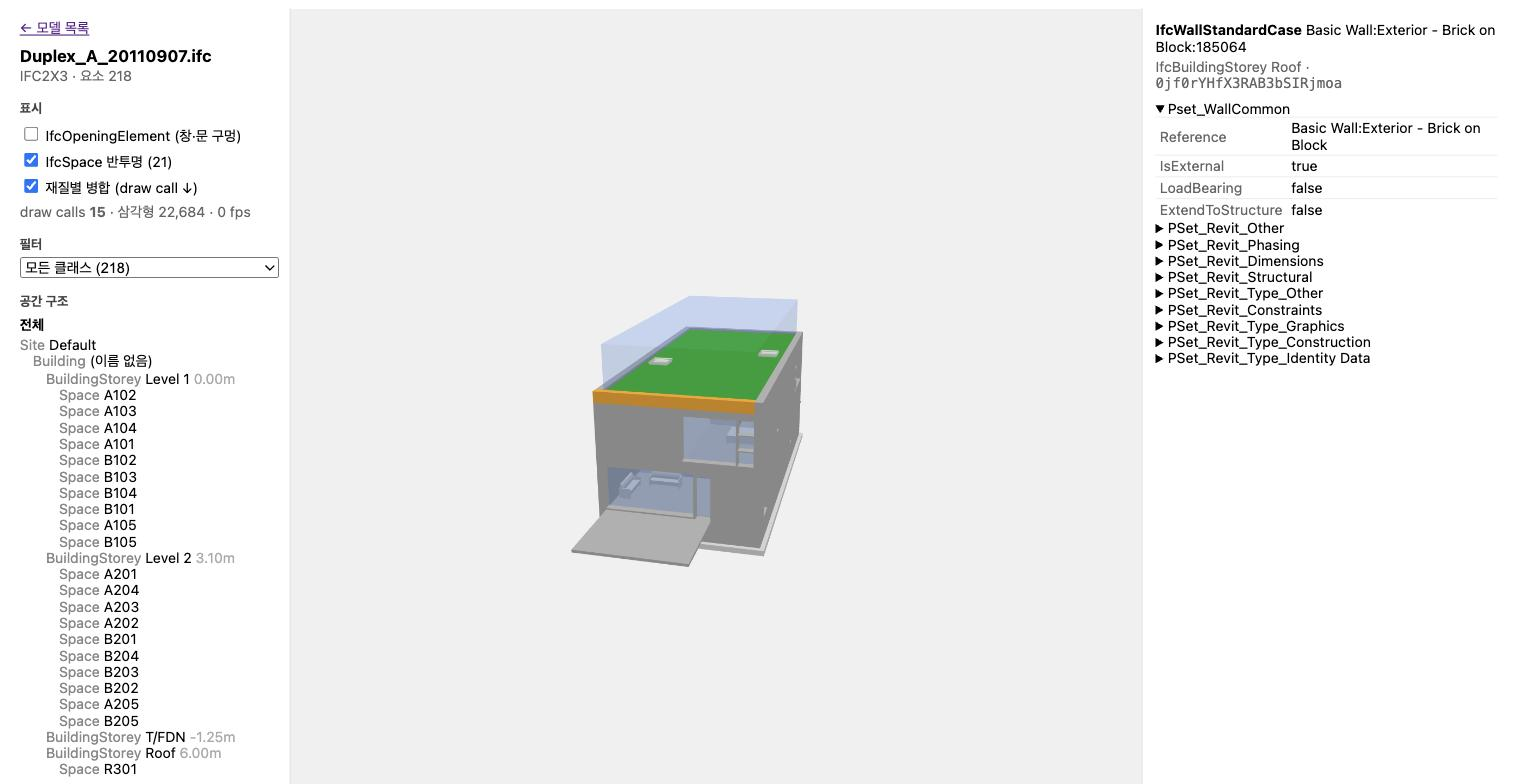
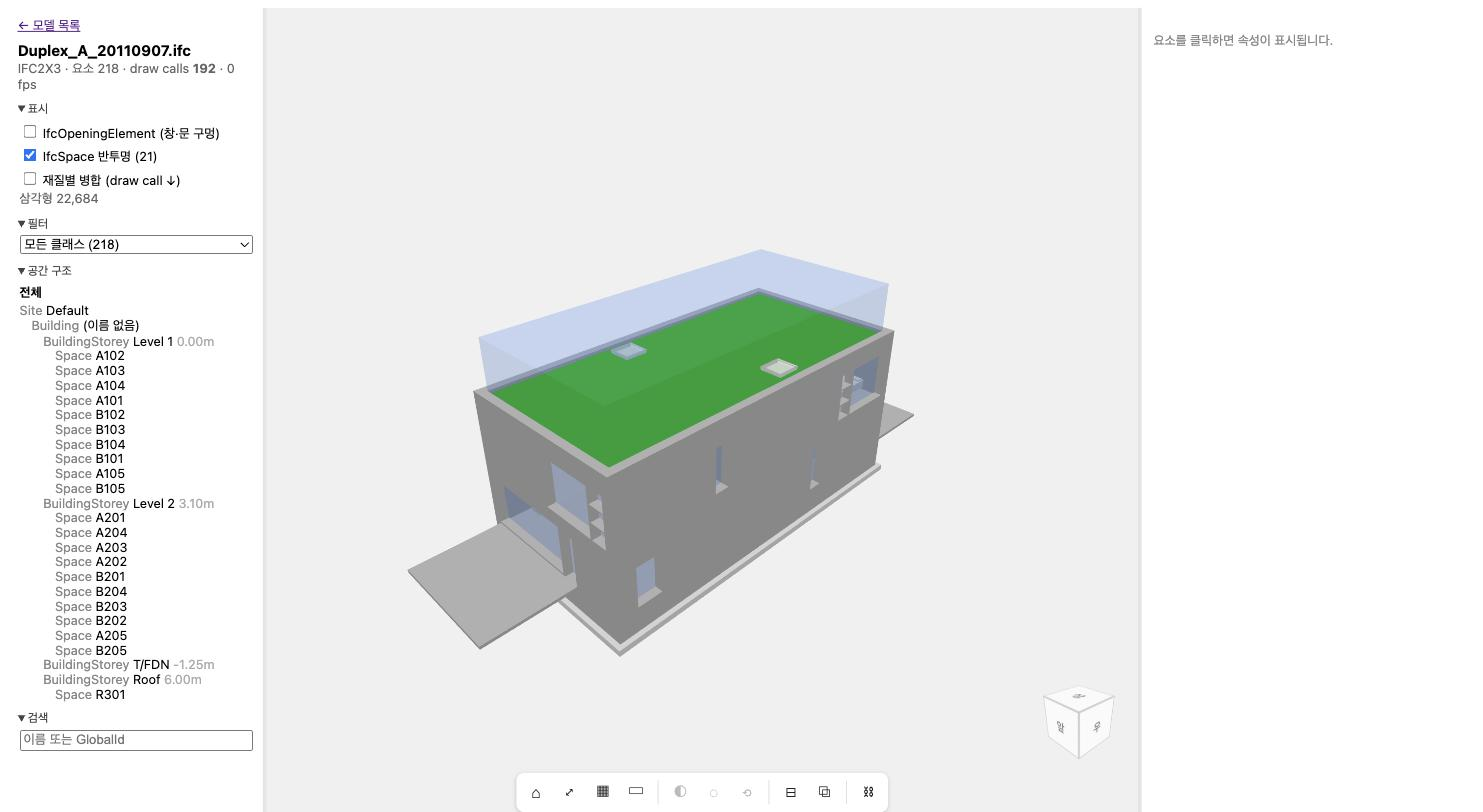
뷰어 UX 1~3: react-resizable-panels 3열(접기·리사이즈, ResizeObserver), 섹션 details, 하단 아이콘 툴바(단면 슬라이더는 모드 시 상단), NavCube 서브씬

diff --git a/web/src/viewer/Viewer.tsx b/web/src/viewer/Viewer.tsx
@@ -1,4 +1,5 @@
-import { useEffect, useMemo, useRef, useState } from 'react'
+import { useEffect, useMemo, useRef, useState, type ReactNode } from 'react'
+import { Group, Panel, Separator } from 'react-resizable-panels'
 import { api, type ElementDetail, type ElementRow, type Model, type SpatialNode } from '../api'
 import { Scene3D, type Kind, type Stats, type View } from './scene'
 
@@ -30,8 +31,7 @@ export default function Viewer({ modelId }: { modelId: string }) {
 
   const byGid = useMemo(() => new Map(elements.map(e => [e.globalId, e])), [elements])
   const spaceGids = useMemo(() => new Set(spatial.filter(s => s.ifcClass === 'IfcSpace').map(s => s.globalId)), [spatial])
-  // storey 아래(Space 포함) spatial_node id 집합
-  const storeyNodes = useMemo(() => {
+  const storeyNodes = useMemo(() => {   // storey 아래(Space 포함) spatial_node id 집합
     if (storey == null) return undefined
     const ids = new Set([storey]); let grew = true
     while (grew) { grew = false; for (const s of spatial) if (s.parentId != null && ids.has(s.parentId) && !ids.has(s.id)) { ids.add(s.id); grew = true } }
@@ -50,13 +50,12 @@ export default function Viewer({ modelId }: { modelId: string }) {
     }
     s.load(model.glbUrl, gid => byGid.has(gid) ? 'element' : spaceGids.has(gid) ? 'space' : 'opening').then(() => {
       setBounds(s.bounds())
-      const vp = readViewpoint()   // B: URL 에 실린 뷰포인트 복원
+      const vp = readViewpoint()   // URL 뷰포인트 복원
       if (vp?.v) s.setView(vp.v)
       if (vp?.clip != null) setClip(vp.clip)
       if (vp?.sel) s.select(vp.sel)
     }).catch(e => setErr(String(e)))
-    // D: 호버 툴팁 (pointermove 는 프레임당 1회로 제한)
-    let pending = false
+    let pending = false   // 호버 툴팁: 프레임당 1회
     const onMove = (e: PointerEvent) => {
       if (pending) return; pending = true
       requestAnimationFrame(() => {
@@ -70,8 +69,7 @@ export default function Viewer({ modelId }: { modelId: string }) {
     return () => { clearInterval(t); canvas.current?.removeEventListener('pointermove', onMove); s.dispose(); scene.current = null }
   }, [model?.glbUrl, elements.length])
 
-  // 필터 → 표시 조건
-  useEffect(() => {
+  useEffect(() => {   // 필터 → 표시 조건
     scene.current?.setVisible((gid, kind) => {
       if (kind === 'opening') return opts.openings
       if (kind === 'space') return opts.spaces && (storeyNodes == null || storeyNodes.has(spaceStorey.get(gid) ?? -1))
@@ -80,21 +78,20 @@ export default function Viewer({ modelId }: { modelId: string }) {
       if (storeyNodes && !(e.spatialNodeId != null && storeyNodes.has(e.spatialNodeId))) return false
       return true
     })
-  }, [opts.openings, opts.spaces, storeyNodes, cls, byGid, stats.calls === 0])
+  }, [opts.openings, opts.spaces, storeyNodes, cls, byGid, bounds])
   useEffect(() => { scene.current?.setMerged(opts.merged) }, [opts.merged])
   useEffect(() => { scene.current?.setClip(clip) }, [clip, bounds])
-  // C: 격리/숨김 — 선택 요소(+ 검색 결과) 기준
-  useEffect(() => {
+  useEffect(() => {   // 격리/숨김 — 선택 요소 기준
     const gid = selected?.globalId
     scene.current?.setFocus(focus === 'none' || !gid ? undefined : { mode: focus, gids: new Set([gid]) })
   }, [focus, selected?.globalId])
 
-  const share = () => {   // B: 현재 카메라·선택·단면을 URL 에
+  const share = () => {   // 현재 카메라·선택·단면 → URL
     const s = scene.current; if (!s) return
-    const v = s.getView(), q = new URLSearchParams({ v: [...v.p, ...v.t].join(',') })
-    if (s.selected) q.set('sel', s.selected)
-    if (clip != null) q.set('clip', clip.toFixed(2))
-    history.replaceState(null, '', `#/models/${modelId}?${q}`)
+    const v = s.getView(), p = new URLSearchParams({ v: [...v.p, ...v.t].join(',') })
+    if (s.selected) p.set('sel', s.selected)
+    if (clip != null) p.set('clip', clip.toFixed(2))
+    history.replaceState(null, '', `#/models/${modelId}?${p}`)
     navigator.clipboard?.writeText(location.href).then(() => { setCopied(true); setTimeout(() => setCopied(false), 1500) })
   }
 
@@ -104,72 +101,86 @@ export default function Viewer({ modelId }: { modelId: string }) {
     const t = q.trim().toLowerCase(); if (!t) return []
     return elements.filter(e => e.globalId === q.trim() || e.name?.toLowerCase().includes(t)).slice(0, 50)
   }, [elements, q])
-  const glbNodes = { total: stats.calls, elements: elements.length, spaces: spaceGids.size }
 
   return (
-    <div style={{ display: 'grid', gridTemplateColumns: '260px 1fr 340px', height: '100vh', fontFamily: 'system-ui', fontSize: 13 }}>
-      <aside style={{ overflow: 'auto', padding: 10, borderRight: '1px solid #ddd' }}>
-        <a href="#/">← 모델 목록</a>
-        <h3 style={{ margin: '8px 0 2px' }}>{model?.name ?? '…'}</h3>
-        <div style={{ color: '#666' }}>{model?.ifcSchema} · 요소 {model?.elementCount}</div>
+    <Group orientation="horizontal" style={{ height: '100vh', fontFamily: 'system-ui', fontSize: 13 }}>
+      <Panel defaultSize={260} minSize={180} collapsible collapsedSize={0}>
+        <aside style={{ overflow: 'auto', height: '100%', padding: 10, boxSizing: 'border-box' }}>
+          <a href="#/">← 모델 목록</a>
+          <h3 style={{ margin: '8px 0 2px' }}>{model?.name ?? '…'}</h3>
+          <div style={{ color: '#666' }}>{model?.ifcSchema} · 요소 {model?.elementCount} · draw calls <b>{stats.calls}</b> · {stats.fps} fps</div>
 
-        <h4 style={sec}>표시</h4>
-        <label style={row}><input type="checkbox" checked={opts.openings} onChange={e => setOpts({ ...opts, openings: e.target.checked })} /> IfcOpeningElement (창·문 구멍)</label>
-        <label style={row}><input type="checkbox" checked={opts.spaces} onChange={e => setOpts({ ...opts, spaces: e.target.checked })} /> IfcSpace 반투명 ({glbNodes.spaces})</label>
-        <label style={row}><input type="checkbox" checked={opts.merged} onChange={e => setOpts({ ...opts, merged: e.target.checked })} /> 재질별 병합 (draw call ↓)</label>
-        <div style={{ color: '#666', marginTop: 4 }}>draw calls <b>{stats.calls}</b> · 삼각형 {stats.triangles.toLocaleString()} · {stats.fps} fps</div>
+          <Section title="표시">
+            <label style={row}><input type="checkbox" checked={opts.openings} onChange={e => setOpts({ ...opts, openings: e.target.checked })} /> IfcOpeningElement (창·문 구멍)</label>
+            <label style={row}><input type="checkbox" checked={opts.spaces} onChange={e => setOpts({ ...opts, spaces: e.target.checked })} /> IfcSpace 반투명 ({spaceGids.size})</label>
+            <label style={row}><input type="checkbox" checked={opts.merged} onChange={e => setOpts({ ...opts, merged: e.target.checked })} /> 재질별 병합 (draw call ↓)</label>
+            <div style={{ color: '#666' }}>삼각형 {stats.triangles.toLocaleString()}</div>
+          </Section>
 
-        <h4 style={sec}>뷰</h4>
-        <div style={{ display: 'flex', gap: 4, flexWrap: 'wrap' }}>
-          {(['home', 'top', 'front', 'side'] as const).map(p => <button key={p} onClick={() => scene.current?.preset(p)}>{{ home: '홈', top: '평면', front: '정면', side: '측면' }[p]}</button>)}
-          <button onClick={() => scene.current?.fit(scene.current.selected)} title="더블클릭과 동일">핏</button>
-          <button onClick={share}>{copied ? '복사됨 ✓' : '뷰포인트 URL'}</button>
-        </div>
+          <Section title="필터">
+            <select value={cls ?? ''} onChange={e => setCls(e.target.value || undefined)} style={{ width: '100%' }}>
+              <option value="">모든 클래스 ({elements.length})</option>
+              {classes.map(c => <option key={c} value={c}>{c} ({elements.filter(e => e.ifcClass === c).length})</option>)}
+            </select>
+          </Section>
 
-        <h4 style={sec}>단면 (수평)</h4>
-        {bounds && <>
-          <label style={row}><input type="checkbox" checked={clip != null} onChange={e => setClip(e.target.checked ? bounds.max[1] : null)} /> 절단 {clip != null && <b>{clip.toFixed(2)}m</b>}</label>
-          <input type="range" min={bounds.min[1]} max={bounds.max[1]} step={0.05} value={clip ?? bounds.max[1]} disabled={clip == null}
-                 onChange={e => setClip(+e.target.value)} style={{ width: '100%' }} />
-          <div style={{ display: 'flex', gap: 4, flexWrap: 'wrap' }}>
-            {storeys.filter(st => st.elevation != null).map(st => <button key={st.id} onClick={() => setClip(st.elevation! + 1.5)} title="층 바닥 +1.5m (평면도 절단 높이)">{st.name}</button>)}
+          <Section title="공간 구조">
+            <div style={{ ...row, cursor: 'pointer', fontWeight: storey == null ? 'bold' : undefined }} onClick={() => setStorey(undefined)}>전체</div>
+            <Tree nodes={spatial} parent={null} depth={0} storey={storey} onStorey={setStorey} onFocus={g => scene.current?.focus(g)} />
+          </Section>
+
+          <Section title="검색">
+            <input value={q} onChange={e => setQ(e.target.value)} placeholder="이름 또는 GlobalId" style={{ width: '100%', boxSizing: 'border-box' }} />
+            {results.map(r => <div key={r.globalId} style={{ ...row, cursor: 'pointer' }} onClick={() => scene.current?.focus(r.globalId)}>
+              <span style={{ color: '#666' }}>{r.ifcClass.replace('Ifc', '')}</span> {r.name}</div>)}
+            {q && !results.length && <div style={{ color: '#888' }}>없음</div>}
+          </Section>
+        </aside>
+      </Panel>
+      <Separator style={sep} />
+
+      <Panel minSize={200}>
+        <div ref={canvas} style={{ position: 'relative', height: '100%', overflow: 'hidden' }}>
+          {err && <p style={{ position: 'absolute', top: 8, left: 8, color: 'crimson', background: '#fff', padding: 6 }}>{err}</p>}
+          {hover && <div style={{ position: 'fixed', left: hover.x + 12, top: hover.y + 12, background: '#222', color: '#fff', padding: '2px 6px', borderRadius: 3, fontSize: 12, pointerEvents: 'none' }}>{hover.text}</div>}
+
+          {/* 단면 슬라이더: 단면 모드일 때만 */}
+          {clip != null && bounds && (
+            <div style={{ position: 'absolute', top: 8, left: '50%', transform: 'translateX(-50%)', background: '#fff', padding: '6px 10px', borderRadius: 6, boxShadow: '0 1px 4px #0003', display: 'flex', gap: 6, alignItems: 'center' }}>
+              <span>단면 <b>{clip.toFixed(2)}m</b></span>
+              <input type="range" min={bounds.min[1]} max={bounds.max[1]} step={0.05} value={clip} onChange={e => setClip(+e.target.value)} style={{ width: 180 }} />
+              {storeys.filter(st => st.elevation != null).map(st => <button key={st.id} onClick={() => setClip(st.elevation! + 1.5)} title="층 바닥 +1.5m">{st.name}</button>)}
+            </div>
+          )}
+
+          {/* 하단 툴바 */}
+          <div style={{ position: 'absolute', bottom: 8, left: '50%', transform: 'translateX(-50%)', display: 'flex', gap: 2, background: '#fff', padding: 4, borderRadius: 8, boxShadow: '0 1px 4px #0003' }}>
+            <Tool icon="⌂" label="홈" onClick={() => scene.current?.preset('home')} />
+            <Tool icon="⤢" label="핏 (더블클릭)" onClick={() => scene.current?.fit(scene.current.selected)} />
+            <Tool icon="▦" label="평면" onClick={() => scene.current?.preset('top')} />
+            <Tool icon="▭" label="정면" onClick={() => scene.current?.preset('front')} />
+            <Gap />
+            <Tool icon="◐" label="격리 (선택 외 반투명)" active={focus === 'ghost'} disabled={!selected} onClick={() => setFocus(focus === 'ghost' ? 'none' : 'ghost')} />
+            <Tool icon="◌" label="나머지 숨김" active={focus === 'hide'} disabled={!selected} onClick={() => setFocus(focus === 'hide' ? 'none' : 'hide')} />
+            <Tool icon="⟲" label="전체 표시" disabled={focus === 'none'} onClick={() => setFocus('none')} />
+            <Gap />
+            <Tool icon="⊟" label="수평 단면" active={clip != null} disabled={!bounds} onClick={() => setClip(clip == null ? bounds!.max[1] - 0.01 : null)} />
+            <Tool icon="⧉" label="재질별 병합" active={opts.merged} onClick={() => setOpts({ ...opts, merged: !opts.merged })} />
+            <Gap />
+            <Tool icon={copied ? '✓' : '⛓'} label="뷰포인트 URL 복사" onClick={share} />
           </div>
-        </>}
-
-        <h4 style={sec}>선택 요소</h4>
-        <div style={{ display: 'flex', gap: 4 }}>
-          {(['none', 'ghost', 'hide'] as const).map(f => <button key={f} disabled={!selected} onClick={() => setFocus(f)} style={{ fontWeight: focus === f ? 'bold' : undefined }}>{{ none: '전체', ghost: '격리', hide: '나머지 숨김' }[f]}</button>)}
         </div>
+      </Panel>
+      <Separator style={sep} />
 
-        <h4 style={sec}>필터</h4>
-        <select value={cls ?? ''} onChange={e => setCls(e.target.value || undefined)} style={{ width: '100%' }}>
-          <option value="">모든 클래스 ({elements.length})</option>
-          {classes.map(c => <option key={c} value={c}>{c} ({elements.filter(e => e.ifcClass === c).length})</option>)}
-        </select>
-
-        <h4 style={sec}>공간 구조</h4>
-        <div style={{ ...row, cursor: 'pointer', fontWeight: storey == null ? 'bold' : undefined }} onClick={() => setStorey(undefined)}>전체</div>
-        <Tree nodes={spatial} parent={null} depth={0} storey={storey} onStorey={setStorey} onFocus={g => scene.current?.focus(g)} />
-        {storeys.length === 0 && spatial.length > 0 && <div style={{ color: '#888' }}>층 정보 없음</div>}
-
-        <h4 style={sec}>검색</h4>
-        <input value={q} onChange={e => setQ(e.target.value)} placeholder="이름 또는 GlobalId" style={{ width: '100%', boxSizing: 'border-box' }} />
-        {results.map(r => <div key={r.globalId} style={{ ...row, cursor: 'pointer' }} onClick={() => scene.current?.focus(r.globalId)}>
-          <span style={{ color: '#666' }}>{r.ifcClass.replace('Ifc', '')}</span> {r.name}</div>)}
-        {q && !results.length && <div style={{ color: '#888' }}>없음</div>}
-      </aside>
-
-      <div ref={canvas} style={{ position: 'relative', minWidth: 0 }}>
-        {err && <p style={{ position: 'absolute', top: 8, left: 8, color: 'crimson', background: '#fff', padding: 6 }}>{err}</p>}
-        {hover && <div style={{ position: 'fixed', left: hover.x + 12, top: hover.y + 12, background: '#222', color: '#fff', padding: '2px 6px', borderRadius: 3, fontSize: 12, pointerEvents: 'none' }}>{hover.text}</div>}
-      </div>
-
-      <aside style={{ overflow: 'auto', padding: 12, borderLeft: '1px solid #ddd' }}>
-        {!selected && <p style={{ color: '#888' }}>요소를 클릭하면 속성이 표시됩니다.</p>}
-        {selected && !('properties' in selected) && <p>glb 노드 <code>{selected.globalId}</code> — {selected.kind === 'space' ? 'IfcSpace (spatial_node)' : 'IfcOpeningElement (element 테이블 제외)'}</p>}
-        {selected && 'properties' in selected && <Props e={selected} />}
-      </aside>
-    </div>
+      <Panel defaultSize={340} minSize={200} collapsible collapsedSize={0}>
+        <aside style={{ overflow: 'auto', height: '100%', padding: 12, boxSizing: 'border-box' }}>
+          {!selected && <p style={{ color: '#888' }}>요소를 클릭하면 속성이 표시됩니다.</p>}
+          {selected && !('properties' in selected) && <p>glb 노드 <code>{selected.globalId}</code> — {selected.kind === 'space' ? 'IfcSpace (spatial_node)' : 'IfcOpeningElement (element 테이블 제외)'}</p>}
+          {selected && 'properties' in selected && <Props e={selected} />}
+        </aside>
+      </Panel>
+    </Group>
   )
 }
 
@@ -179,8 +190,23 @@ function readViewpoint(): { v?: View; sel?: string; clip?: number } | undefined 
   return { v: n?.length === 6 ? { p: n.slice(0, 3), t: n.slice(3) } : undefined, sel: q.get('sel') ?? undefined, clip: q.has('clip') ? +q.get('clip')! : undefined }
 }
 
-const sec = { margin: '14px 0 4px', fontSize: 12, color: '#444', textTransform: 'uppercase' as const }
 const row = { display: 'block', padding: '2px 0' }
+const sep = { width: 4, background: '#e5e5e5', cursor: 'col-resize' }
+
+function Section({ title, children }: { title: string; children: ReactNode }) {
+  return (
+    <details open style={{ marginTop: 10 }}>
+      <summary style={{ fontSize: 12, color: '#444', textTransform: 'uppercase', cursor: 'pointer', userSelect: 'none' }}>{title}</summary>
+      <div style={{ padding: '4px 0 0 2px' }}>{children}</div>
+    </details>
+  )
+}
+
+function Tool({ icon, label, onClick, active, disabled }: { icon: string; label: string; onClick: () => void; active?: boolean; disabled?: boolean }) {
+  return <button title={label} onClick={onClick} disabled={disabled}
+    style={{ width: 32, height: 32, fontSize: 16, border: 0, borderRadius: 6, cursor: disabled ? 'default' : 'pointer', background: active ? '#2563eb' : 'transparent', color: active ? '#fff' : disabled ? '#bbb' : '#222' }}>{icon}</button>
+}
+const Gap = () => <span style={{ width: 1, background: '#ddd', margin: '4px 4px' }} />
 
 function Tree({ nodes, parent, depth, storey, onStorey, onFocus }: {
   nodes: SpatialNode[]; parent: number | null; depth: number; storey?: number; onStorey: (id: number) => void; onFocus: (gid: string) => void

diff --git a/web/src/viewer/scene.ts b/web/src/viewer/scene.ts
@@ -33,6 +33,8 @@ export class Scene3D {
   onPick?: (gid: string | undefined, kind: Kind | undefined) => void
 
   private el: HTMLElement
+  private ro: ResizeObserver
+  private navCube: NavCube
 
   constructor(el: HTMLElement) {
     this.el = el
@@ -51,8 +53,9 @@ export class Scene3D {
       this.select(this.pick(e.clientX, e.clientY))
     })
     this.renderer.domElement.addEventListener('dblclick', e => this.fit(this.pick(e.clientX, e.clientY)))
-    addEventListener('resize', this.onResize)
-    const loop = () => { this.raf = requestAnimationFrame(loop); this.controls.update(); this.renderer.render(this.scene, this.camera); this.frames++ }
+    this.ro = new ResizeObserver(this.onResize); this.ro.observe(el)   // 패널 리사이즈 추종
+    this.navCube = new NavCube(el, dir => this.lookFrom(dir))
+    const loop = () => { this.raf = requestAnimationFrame(loop); this.controls.update(); this.renderer.render(this.scene, this.camera); this.navCube.sync(this.camera); this.frames++ }
     loop()
   }
 
@@ -132,10 +135,14 @@ export class Scene3D {
   }
 
   preset(name: 'home' | 'top' | 'front' | 'side') {
-    const c = this.box.getCenter(new THREE.Vector3()), s = this.box.getSize(new THREE.Vector3()), d = s.length()
-    const dir = { home: new THREE.Vector3(1, 0.8, 1), top: new THREE.Vector3(0, 1, 0.0001), front: new THREE.Vector3(0, 0, 1), side: new THREE.Vector3(1, 0, 0) }[name].normalize()
-    this.controls.target.copy(c); this.camera.position.copy(c).addScaledVector(dir, d); this.controls.update()
+    this.lookFrom({ home: new THREE.Vector3(1, 0.8, 1), top: new THREE.Vector3(0, 1, 0.0001), front: new THREE.Vector3(0, 0, 1), side: new THREE.Vector3(1, 0, 0) }[name])
     this.fit()
+  }
+
+  /** 주어진 방향에서 현재 타깃을 바라보게 (거리 유지). NavCube·프리셋 공용 */
+  lookFrom(dir: THREE.Vector3) {
+    const t = this.controls.target, d = this.camera.position.distanceTo(t) || this.box.getSize(new THREE.Vector3()).length()
+    this.camera.position.copy(t).addScaledVector(dir.clone().normalize(), d); this.controls.update()
   }
 
   /** 카메라를 해당 요소로 */
@@ -157,7 +164,7 @@ export class Scene3D {
     return { calls: this.renderer.info.render.calls, triangles: this.renderer.info.render.triangles, fps: this.fps }
   }
 
-  dispose() { cancelAnimationFrame(this.raf); removeEventListener('resize', this.onResize); this.renderer.dispose(); this.el.removeChild(this.renderer.domElement) }
+  dispose() { cancelAnimationFrame(this.raf); this.ro.disconnect(); this.navCube.dispose(); this.renderer.dispose(); this.el.removeChild(this.renderer.domElement) }
 
   private apply() {
     for (const m of this.meshes) {
@@ -183,4 +190,45 @@ export class Scene3D {
   }
 
   private onResize = () => { this.camera.aspect = this.el.clientWidth / this.el.clientHeight; this.camera.updateProjectionMatrix(); this.renderer.setSize(this.el.clientWidth, this.el.clientHeight) }
+}
+
+/** 우하단 방향 큐브. 메인 카메라의 회전만 따라가고, 면을 클릭하면 그 방향에서 보게 한다. */
+class NavCube {
+  private renderer: THREE.WebGLRenderer
+  private scene = new THREE.Scene()
+  private camera = new THREE.PerspectiveCamera(35, 1, 0.1, 100)
+  private cube: THREE.Mesh
+  private el: HTMLCanvasElement
+
+  constructor(parent: HTMLElement, onFace: (dir: THREE.Vector3) => void) {
+    this.el = document.createElement('canvas')
+    Object.assign(this.el.style, { position: 'absolute', right: '12px', bottom: '56px', width: '96px', height: '96px', cursor: 'pointer' })
+    parent.appendChild(this.el)
+    this.renderer = new THREE.WebGLRenderer({ canvas: this.el, alpha: true, antialias: true })
+    this.renderer.setSize(96, 96, false); this.renderer.setPixelRatio(devicePixelRatio)
+    const face = (t: string) => {
+      const c = document.createElement('canvas'); c.width = c.height = 128
+      const g = c.getContext('2d')!; g.fillStyle = '#f4f4f4'; g.fillRect(0, 0, 128, 128); g.strokeStyle = '#999'; g.lineWidth = 6; g.strokeRect(0, 0, 128, 128)
+      g.fillStyle = '#333'; g.font = 'bold 34px system-ui'; g.textAlign = 'center'; g.textBaseline = 'middle'; g.fillText(t, 64, 66)
+      return new THREE.MeshBasicMaterial({ map: new THREE.CanvasTexture(c) })
+    }
+    // BoxGeometry 재질 순서: +x -x +y -y +z -z
+    this.cube = new THREE.Mesh(new THREE.BoxGeometry(1, 1, 1), ['우', '좌', '상', '하', '앞', '뒤'].map(face))
+    this.scene.add(this.cube)
+    this.camera.position.set(0, 0, 3.2)
+    const dirs = [new THREE.Vector3(1, 0, 0), new THREE.Vector3(-1, 0, 0), new THREE.Vector3(0, 1, 0.0001), new THREE.Vector3(0, -1, 0.0001), new THREE.Vector3(0, 0, 1), new THREE.Vector3(0, 0, -1)]
+    this.el.addEventListener('click', e => {
+      const r = this.el.getBoundingClientRect(), ray = new THREE.Raycaster()
+      ray.setFromCamera(new THREE.Vector2(((e.clientX - r.left) / r.width) * 2 - 1, -((e.clientY - r.top) / r.height) * 2 + 1), this.camera)
+      const hit = ray.intersectObject(this.cube)[0]
+      if (hit?.face) onFace(dirs[hit.face.materialIndex])
+    })
+  }
+
+  sync(main: THREE.Camera) {
+    this.cube.quaternion.copy(main.quaternion).invert()
+    this.renderer.render(this.scene, this.camera)
+  }
+
+  dispose() { this.renderer.dispose(); this.el.remove() }
 }

diff --git a/docs/study/viewer-ux-references.md b/docs/study/viewer-ux-references.md
@@ -32,9 +32,9 @@
 
 ## 3. 결론 — 우리 뷰어 다음 손질 순서
 
-1. **패널 리사이즈·접기** — react-resizable-panels 1개 추가, 섹션은 `<details>`. 비용 낮음, 체감 큼.
-2. **하단 아이콘 툴바 + 모드 버튼** — 선택/격리/숨김/단면/측정을 토글 아이콘으로. 좌측 패널이 가벼워짐.
-3. **NavCube** — 우하단 작은 큐브(면 클릭 → 프리셋). drei 없이 서브씬 100줄.
+1. ✅ **패널 리사이즈·접기** — react-resizable-panels 4.x (`Group/Panel/Separator`), 섹션은 `<details>`. 캔버스는 `ResizeObserver` 로 추종.
+2. ✅ **하단 아이콘 툴바 + 모드 버튼** — 홈/핏/평면/정면 · 격리/숨김/전체 · 단면/병합 · URL. 단면 슬라이더는 단면 모드일 때만 상단에.
+3. ✅ **NavCube** — `scene.ts` 안 `NavCube` 클래스: 별도 WebGLRenderer(96px, alpha) + BoxGeometry 6면 CanvasTexture 라벨, 메인 카메라 quaternion 의 역을 큐브에 적용, 면 클릭 → `lookFrom(dir)` (거리 유지).
 4. **트리 3모드** — 공간 / 클래스 / (타입은 M5). 노드 체크박스로 표시 토글.
 5. **속성 색상 모드(E)** — Speckle 방식: 속성 선택 → 값별 범례 → 색칠.
 6. **우클릭 컨텍스트 메뉴** — 격리/숨김/핏/속성 복사.

diff --git a/README.md b/README.md
@@ -54,6 +54,6 @@ curl -X POST localhost:8080/api/models/<id>/retry                               
 
 ![M2 뷰어](docs/images/m2-viewer.jpg)
 
-모델 목록에서 READY 모델 클릭 → `#/models/{id}`. 요소 클릭 → Pset, 층/클래스 필터, 검색, 표시 옵션(Opening·Space·재질별 병합 + draw call 카운터), 수평 단면(층 스냅), 격리/숨김, 호버 툴팁, 뷰 프리셋·더블클릭 핏, 뷰포인트 URL 공유.
+모델 목록에서 READY 모델 클릭 → `#/models/{id}`. 요소 클릭 → Pset, 층/클래스 필터, 검색, 표시 옵션(Opening·Space·재질별 병합 + draw call 카운터), 수평 단면(층 스냅), 격리/숨김, 호버 툴팁, 뷰 프리셋·더블클릭 핏, 뷰포인트 URL 공유. 리사이즈 패널, 하단 아이콘 툴바, NavCube.
 
 샘플 IFC 는 `samples/README.md` 참고. 로컬 개발: `cd api && ./gradlew test` (Testcontainers, Docker 필요), `cd web && npm run dev`.
